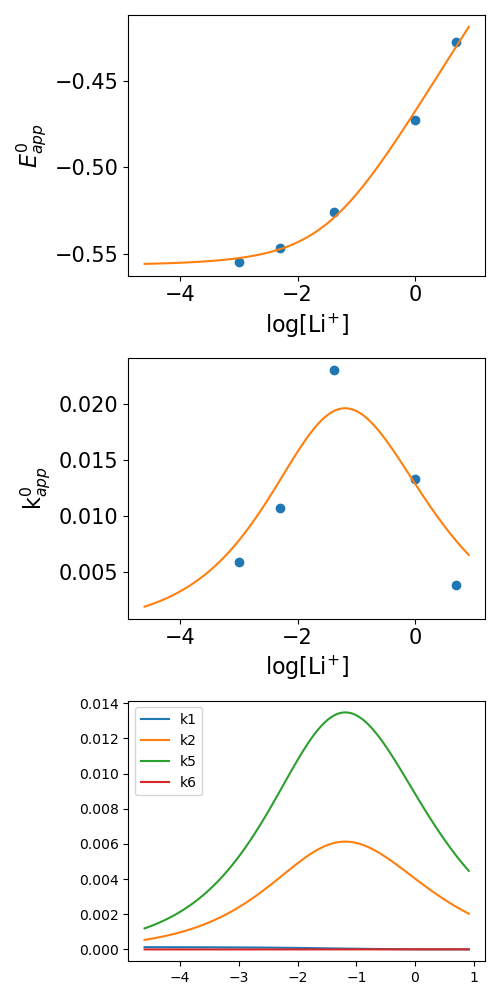
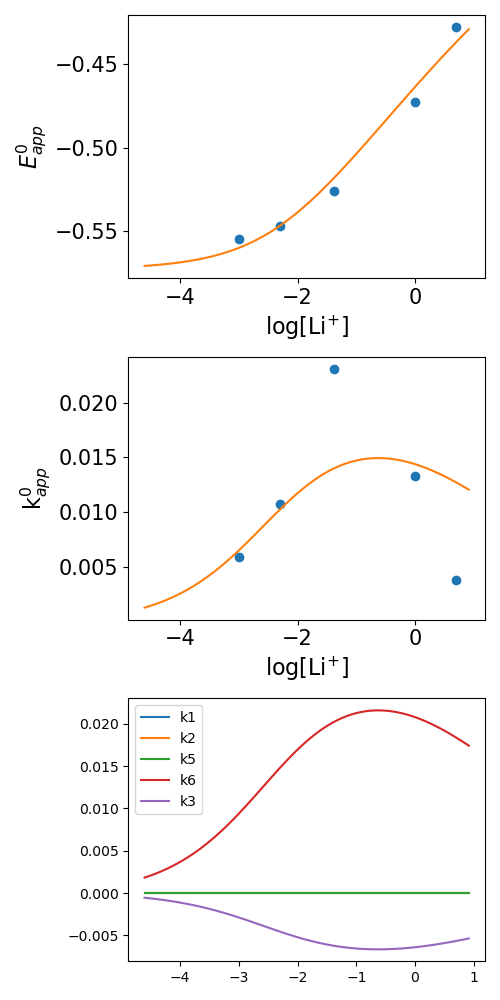
Tested pathways 2c and 3 and didn't fit well

diff --git a/Fit_DMSO_experimental_Vera_3.py b/Fit_DMSO_experimental_Vera_3.py
@@ -14,11 +14,11 @@ import scipy.optimize
 
 from datetime import datetime
 
-from autograd import numpy as np
-from autograd import elementwise_grad, value_and_grad, hessian
-from scipy.optimize import minimize
+# from autograd import numpy as np
+# from autograd import elementwise_grad, value_and_grad, hessian
+# from scipy.optimize import minimize
 
-print ("Test")
+print ("Test branch")
 def E_app(c, E0, Ka1R, Ka2R, Ka3R, Ka1O, Ka2O, Ka3O):
     return E0+R*T/F*np.log((1+Ka1R*c+Ka1R*Ka2R*c**2+Ka1R*Ka2R*Ka3R*c**3)/(1+Ka1O*c+Ka1O*Ka2O*c**2+Ka1O*Ka2O*Ka3O*c**3))
 
@@ -33,14 +33,20 @@ def k2_theo(c, k2, Ka1R, Ka2R, Ka3R, Ka1O, Ka2O, Ka3O):
 
 def k1_theo(c, k1, Ka1R, Ka2R, Ka3R, Ka1O, Ka2O, Ka3O):
     return k1*(((1+Ka1R*c+Ka1R*Ka2R*c**2+Ka1R*Ka2R*Ka3R*c**3))**-alpha*((1+Ka1O*c+Ka1O*Ka2O*c**2+Ka1O*Ka2O*Ka3O*c**3))**(alpha-1))
+
+def k3_theo(c, k3, Ka1R, Ka2R, Ka3R, Ka1O, Ka2O, Ka3O):
+    return k3*(((1+Ka1R*c+Ka1R*Ka2R*c**2+Ka1R*Ka2R*Ka3R*c**3)/Ka1R/Ka2R)**-alpha*((1+Ka1O*c+Ka1O*Ka2O*c**2+Ka1O*Ka2O*Ka3O*c**3)/Ka1O/Ka2O)**(alpha-1)*c**2)
+
     
 def loss(x0,df):
     value = 0
     #E0, k1,k2,k5, Ka1R, Ka2R, Ka3R, Ka1O, Ka2O, Ka3O = x0 
-    #E0, k2,k5 , Ka1R, Ka2R, Ka3R, Ka1O = x0 
+  #  E0, k2,k5 , Ka1R, Ka2R, Ka3R, Ka1O = x0 
+    #E0, k5 , Ka1R, Ka2R, Ka3R, Ka1O = x0 
+    E0, k6 , k3,  Ka1R, Ka2R, Ka3R, Ka1O, Ka2O = x0 
   #  E0, k1, k2, k5, k6, Ka1R, Ka2R, Ka3R, Ka1O = x0 
    # E0, k1, k2, k5, k6, Ka1R, Ka2R, Ka3R, Ka1O, Ka2O = x0
-    E0, k1, k2, k5, k6, Ka1R, Ka2R, Ka3R, Ka1O, Ka2O, Ka3O = x0
+   # E0, k1, k2, k5, k6, Ka1R, Ka2R, Ka3R, Ka1O, Ka2O, Ka3O = x0
    # k1, k2, k5, k6= x0 
     # Ka2O = 0
     # Ka3O = 0
@@ -89,7 +95,8 @@ def loss(x0,df):
     k_fit  = (k5_theo(df["c_LiTFSI (M)"],k5, Ka1R, Ka2R, Ka3R, Ka1O, Ka2O, Ka3O)
               +k2_theo(df["c_LiTFSI (M)"], k2, Ka1R, Ka2R, Ka3R, Ka1O, Ka2O, Ka3O)
                   +k6_theo( df["c_LiTFSI (M)"], k6, Ka1R, Ka2R, Ka3R, Ka1O, Ka2O, Ka3O)
-                      +k1_theo( df["c_LiTFSI (M)"], k1, Ka1R, Ka2R, Ka3R, Ka1O, Ka2O, Ka3O))
+                      +k1_theo( df["c_LiTFSI (M)"], k1, Ka1R, Ka2R, Ka3R, Ka1O, Ka2O, Ka3O)
+                          +k3_theo( df["c_LiTFSI (M)"], k3, Ka1R, Ka2R, Ka3R, Ka1O, Ka2O, Ka3O))
     #value = value + np.sum(np.abs((E_fit-df["E0"])/df["E0"])+((np.abs(k_fit-df["ks"]))*5))
     value_k = np.sum(np.abs((k_fit-df["ks"]))**2*10)
     value_E = np.sum(np.abs((E_fit-df["E0"])/df["E0"])**2)
@@ -104,8 +111,9 @@ def takestep(x):
     """ This function determines how the parameters will be adjusted at each 
     basinhopping optimiser step. It allows us to specify different step sizes 
     for each of the three parameters."""
-    stepsize=[0.01,0.01,0.01,0.01,0.01, 1,1,1,1,1,1]   # Maximum amount to step in one go.
+   # stepsize=[0.01,0.01,0.01,0.01,0.01, 1,1,1,1,1,1]   # Maximum amount to step in one go.
   #  stepsize=[0.001,0.01,0.01,0.001]   # Maximum amount to step in one go.
+    stepsize=[0.01,0.01, 10,10,10,10,10,10]   # Maximum amount to step in one go.
     dx = [np.random.uniform(low=-stepsize[i],high=stepsize[i]) for i in range(len(x0))]
     return x+dx
 
@@ -123,26 +131,31 @@ def main():
     c= np.exp(c)
   #  loss(df, E0, k1,k2,k5, Ka1R, Ka2R, Ka3R, Ka1O, Ka2O, Ka3O)
     bnds = ((-0.6,-0.5), (0, None), (0,None), (0,None), (0,None), (0,None), (0,None))
-    LA = scipy.optimize.basinhopping(loss, x0,  T=0.1, niter= 0, take_step=takestep,
+    LA = scipy.optimize.basinhopping(loss, x0,  T=0.1, niter= 100, take_step=takestep,
                                        minimizer_kwargs= {"args":(df), "method":"Nelder-Mead",
                                        "bounds":bnds})
     
   #  E0, k1, k2, k5, k6 ,Ka1R, Ka2R, Ka3R, Ka1O = LA.x
   #  E0, k1, k2, k5, k6 ,Ka1R, Ka2R, Ka3R, Ka1O, Ka2O = LA.x
-    E0, k1, k2, k5, k6 ,Ka1R, Ka2R, Ka3R, Ka1O, Ka2O, Ka3O = LA.x
+  #  E0, k1, k2, k5, k6 ,Ka1R, Ka2R, Ka3R, Ka1O, Ka2O, Ka3O = LA.x
   #  k1, k2, k5, k6 = LA.x
+   # E0, k2,k5 , Ka1R, Ka2R, Ka3R, Ka1O = LA.x
+   # E0, k5 , Ka1R, Ka2R, Ka3R, Ka1O = LA.x
+    E0, k6 , k3, Ka1R, Ka2R, Ka3R, Ka1O, Ka2O = LA.x
   #  k1 = 2.230405e-09
   #  k2 = 6.064541e-02
   #  k5 = 5.671643e-03
   #  k6 = 1.870149e-03
     
-    print(LA)
+#    print(LA)
     LA_df = pd.DataFrame(LA.x)
     LA_df = pd.DataFrame.transpose(LA_df)
-  #  LA_df.columns = ["E0", "k2","k5" , "Ka1R", "Ka2R", "Ka3R", "Ka1O"]
+    #LA_df.columns = ["E0", "k2","k5" , "Ka1R", "Ka2R", "Ka3R", "Ka1O"]
+  #  LA_df.columns = ["E0", "k5" , "Ka1R", "Ka2R", "Ka3R", "Ka1O"]
+    LA_df.columns = ["E0", "k6" , "k3", "Ka1R", "Ka2R", "Ka3R", "Ka1O", "Ka2O"]
   #  LA_df.columns = ["E0", "k1", "k2","k5","k6", "Ka1R", "Ka2R", "Ka3R", "Ka1O"]
   #  LA_df.columns = ["E0", "k1", "k2","k5","k6", "Ka1R", "Ka2R", "Ka3R", "Ka1O", "Ka2O"]
-    LA_df.columns = ["E0", "k1", "k2","k5","k6", "Ka1R", "Ka2R", "Ka3R", "Ka1O", "Ka2O", "Ka3O"]
+  #  LA_df.columns = ["E0", "k1", "k2","k5","k6", "Ka1R", "Ka2R", "Ka3R", "Ka1O", "Ka2O", "Ka3O"]
  #   LA_df.columns = ["k1", "k2","k5","k6"]
     LA_df = pd.DataFrame.transpose(LA_df)
     
@@ -163,7 +176,8 @@ def main():
     ax[1].plot(np.log(c), k5_theo(c, k5, Ka1R, Ka2R, Ka3R, Ka1O, Ka2O, Ka3O)
         +k2_theo(c, k2, Ka1R, Ka2R, Ka3R, Ka1O, Ka2O, Ka3O)
            +k6_theo(c, k6, Ka1R, Ka2R, Ka3R, Ka1O, Ka2O, Ka3O)
-               +k1_theo(c, k1, Ka1R, Ka2R, Ka3R, Ka1O, Ka2O, Ka3O))
+               +k1_theo(c, k1, Ka1R, Ka2R, Ka3R, Ka1O, Ka2O, Ka3O)
+                   +k3_theo(c, k3, Ka1R, Ka2R, Ka3R, Ka1O, Ka2O, Ka3O))
     ax[1].set_ylabel(("k$^{0}_{app}$"), fontsize = 16)
     ax[1].set_xlabel ("log[Li$^{+}$]", fontsize = 16)
     ax[1].tick_params(axis='both', which='major', labelsize=15)
@@ -172,6 +186,7 @@ def main():
     ax[2].plot(np.log(c), k2_theo(c, k2, Ka1R, Ka2R, Ka3R, Ka1O, Ka2O, Ka3O), label = "k2")
     ax[2].plot(np.log(c), k5_theo(c, k5, Ka1R, Ka2R, Ka3R, Ka1O, Ka2O, Ka3O), label = "k5")
     ax[2].plot(np.log(c), k6_theo(c, k6, Ka1R, Ka2R, Ka3R, Ka1O, Ka2O, Ka3O), label = "k6")
+    ax[2].plot(np.log(c), k3_theo(c, k3, Ka1R, Ka2R, Ka3R, Ka1O, Ka2O, Ka3O), label = "k3")
     ax[2].legend()
     fig.tight_layout()    
    # k2 = np.array(np.linspace(0.001,0.05,10))
@@ -210,22 +225,25 @@ if __name__ == "__main__":
     
     #### Initial guesses of parameters
     E0   = -0.555084
-    k1   = 0.0001
-    k2   = 0.05
-    k5   = 0.05
-    k6   = 0.00001
-    Ka1R = 4
-    Ka2R = 4
-    Ka3R = 4
-    Ka1O = 2
-    Ka2O = 0.01
-    Ka3O = 0.01
+    k1   = 0
+    k2   = 0
+    k5   = 0
+    k6   = 0.1
+    k3   = 0.1
+    Ka1R = 100
+    Ka2R = 10
+    Ka3R = 10
+    Ka1O = 1
+    Ka2O = 1
+    Ka3O = 0
    
    # x0 = [E0, k1,k2,k5, Ka1R, Ka2R, Ka3R, Ka1O, Ka2O, Ka3O]
    # x0 = [E0, k2,k5, Ka1R, Ka2R, Ka3R, Ka1O]
+   # x0 = [E0, k5, Ka1R, Ka2R, Ka3R, Ka1O]
+    x0 = [E0, k6, k3, Ka1R, Ka2R, Ka3R, Ka1O, Ka2O]
    # x0 = [E0, k1, k2, k5, k6, Ka1R, Ka2R, Ka3R, Ka1O]
   #  x0 = [E0, k1, k2, k5, k6, Ka1R, Ka2R, Ka3R, Ka1O, Ka2O] 
-    x0 = [E0, k1, k2, k5, k6, Ka1R, Ka2R, Ka3R, Ka1O, Ka2O, Ka3O] 
+  #  x0 = [E0, k1, k2, k5, k6, Ka1R, Ka2R, Ka3R, Ka1O, Ka2O, Ka3O] 
  #   x0 = [k1, k2, k5, k6]
     #Call main program
     main()
